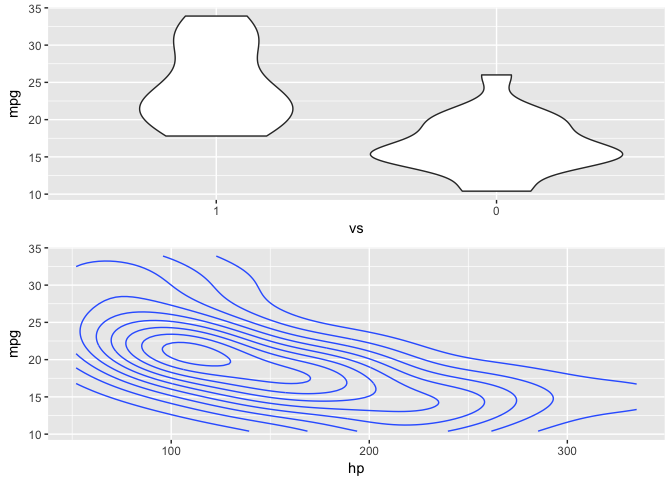
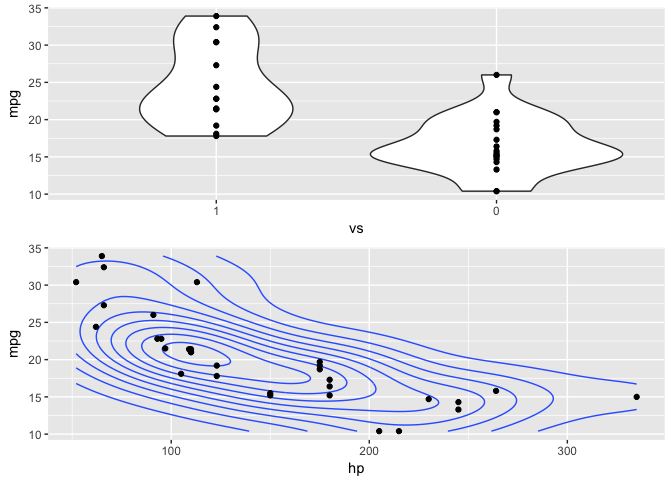
cache stuff. and better README.

diff --git a/README.md b/README.md
@@ -140,7 +140,7 @@ select the geom according to the variable class.
 
 ``` r
 multiple_vis <- mtcars_converted %>%
-  vis_cols(contains("hp"), "cyl", transformer = vis_2d_point) 
+  vis_cols(vs, "cyl", transformer = vis_2d_point) 
 
 multiple_vis %>%
   merge_vis()
@@ -186,10 +186,14 @@ dimensions in the plot manually via `k_dimensional` instead of using
 mtcars_converted %>%
   vis_cols(vs, contains("hp"), "mpg", transformer = vis_distr, k_dimensional = 2) %>%
   dplyr::slice(-1) %>%
+  mutate_gg(ggplot2::geom_point()) %>%
   merge_vis()
 ```
 
 <img src="man/figures/README-mtcars_converted_distr-1.png" width="80%" />
+
+We use `mutate_gg()` (see below) to add the raw data points to the
+plots.
 
 ### Low-level interface
 
